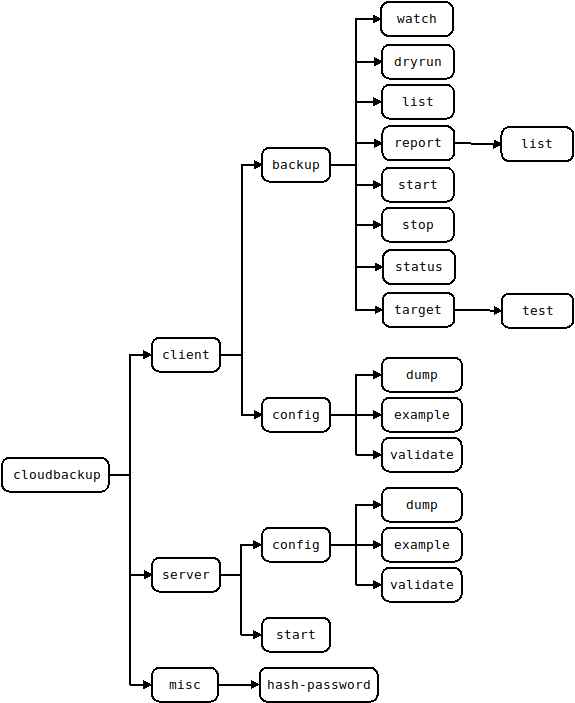
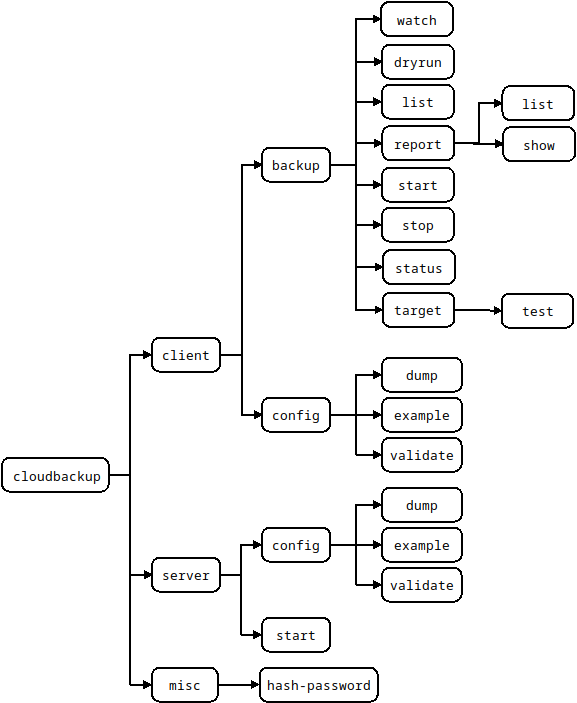
added tests for CLI command "backup report show" and also updated documentation

diff --git a/webstatic/docs/index.html b/webstatic/docs/index.html
@@ -157,5 +157,5 @@
 
 <!--
 MkDocs version : 1.0
-Build Date UTC : 2019-12-30 12:17:20
+Build Date UTC : 2020-01-18 02:28:28
 -->

diff --git a/integration_tests/cli_advanced.py b/integration_tests/cli_advanced.py
@@ -130,9 +130,6 @@ class TestCliAdvanced(unittest.TestCase):
                 found_expected_error = True
         self.assertTrue(found_expected_error)
 
-    # TODO - start a backup and then check that the output of "cloudbackup client backup list" matches expectations in
-    #  both plain and --json output
-
     # ./cloudbackup client backup status first_backup -c client_config.yaml returns 3 lines
     def test_cmd_client_backup_status1(self):
         result = run_shell_cmd(self.cmd + " client backup status first_backup -c " + self.client_config_file_path)
@@ -185,9 +182,6 @@ class TestCliAdvanced(unittest.TestCase):
             if 'Invalid username or password'.lower() in line.lower():
                 found_expected_error = True
         self.assertTrue(found_expected_error)
-
-    # TODO - start a backup and then check that the output of "cloudbackup client backup status" matches expectations in
-    #  both plain and --json output
 
     # ./cloudbackup client backup start first_backup -c client_config.yaml works
     def test_cmd_client_backup_start_stop(self):
@@ -292,6 +286,24 @@ class TestCliAdvanced(unittest.TestCase):
             self.assertEqual(backup_job['start_time'], start_time, "Report list result has a different start_time than"
                                                                    " the expected: {}. Returned value was:"
                                                                    " {}".format(start_time, backup_job['start_time']))
+        # check we can get a backup report using the CLI
+        result = run_shell_cmd(
+            self.cmd + " client backup report show -i {} first_backup -c ".format(job_id) +
+            self.client_config_file_path + " --json")
+        self.assertEqual(result['result'].returncode, 0, "Exit code from {} is not 0. Command output object: "
+                                                         "{}".format(cmd_default, result))
+        # output is JSON
+        decoded = json.loads(result['result'].stdout.decode("utf-8"))
+        # check elements match expectation
+        self.assertEqual(decoded["result"]["name"], "first_backup", "Result from command doesn't match expected "
+                                                                    "JSON output")
+        self.assertEqual(decoded["result"]["state"], "cancelled", "Result from command doesn't match expected "
+                                                                  "JSON output")
+        # check we get get an error when fetching a report if we don't specify the job_id
+        result = run_shell_cmd(
+            self.cmd + " client backup report show first_backup -c " + self.client_config_file_path + " --json")
+        self.assertEqual(result['result'].returncode, 1, "Exit code from {} is not 1. Command output object: "
+                                                         "{}".format(cmd_default, result))
 
     # ./cloudbackup client backup start first_backup -c client_config.yaml -u user_with_read_access -p password
     # returns exit code 1 and expected error msg ; we also get to test command line overrides work